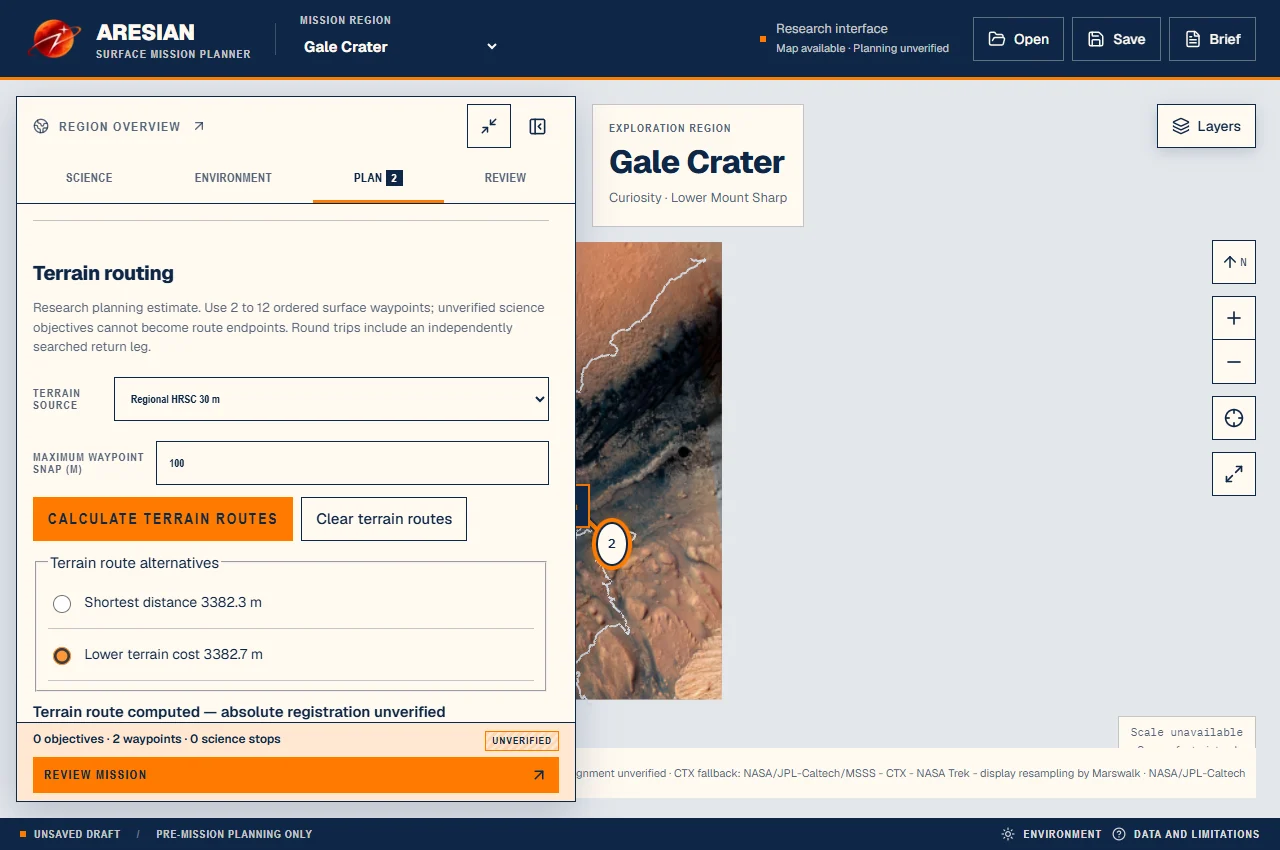
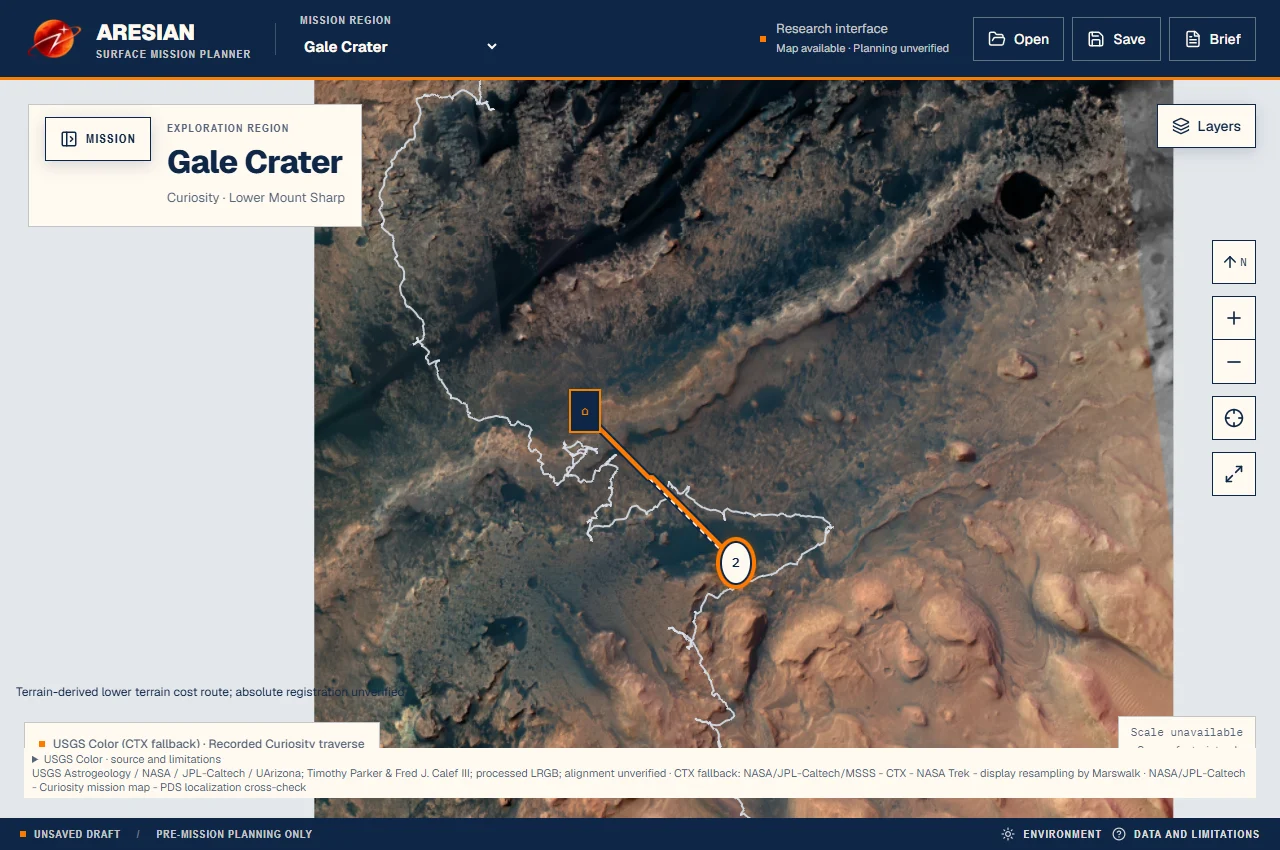
feat: add development priorities and unobstructed route previews

diff --git a/components/landing/FutureDevelopment.tsx b/components/landing/FutureDevelopment.tsx
@@ -1,0 +1,47 @@
+import { Compass, MapPin, BatteryCharging, Files } from "lucide-react";
+
+const priorities = [
+  {
+    title: "Geographic and terrain validation",
+    description: "Validate geographic registration, coordinate systems, data coverage and hazard thresholds.",
+    Icon: Compass,
+  },
+  {
+    title: "Science-objective verification",
+    description: "Complete evidence-based verification of Gale and Jezero science-objective locations.",
+    Icon: MapPin,
+  },
+  {
+    title: "Resource and feasibility models",
+    description: "Improve resource models and mission-feasibility assessments while keeping assumptions visible.",
+    Icon: BatteryCharging,
+  },
+  {
+    title: "Offline planning and reporting",
+    description: "Expand offline access, mission revalidation and report generation.",
+    Icon: Files,
+  },
+];
+
+export function FutureDevelopment() {
+  return (
+    <section id="future-development" aria-labelledby="future-development-title" className="bg-[#FFF9F0] py-20 lg:py-28 border-b border-[#0F2747]/10">
+      <div className="max-w-[1280px] mx-auto px-4 sm:px-6 lg:px-8">
+        <div className="max-w-2xl space-y-3 mb-12 lg:mb-14">
+          <span className="font-mono text-xs uppercase tracking-[0.16em] text-[#FF7A00] font-semibold block">07 · Looking ahead</span>
+          <h2 id="future-development-title" className="font-display font-bold text-3xl sm:text-4xl text-[#0F2747] leading-tight">Future development</h2>
+          <p className="text-base text-[#0F2747]/80 leading-relaxed">Our next steps focus on stronger scientific verification, clearer assumptions, and more useful planning tools.</p>
+        </div>
+        <div className="grid grid-cols-1 md:grid-cols-2 gap-6">
+          {priorities.map(({ title, description, Icon }) => (
+            <article key={title} className="rounded-xl border border-[#0F2747]/12 bg-[#FFE7D1]/30 p-6 space-y-3">
+              <Icon className="w-6 h-6 text-[#FF7A00]" aria-hidden="true" />
+              <h3 className="font-display font-bold text-lg text-[#0F2747]">{title}</h3>
+              <p className="text-sm text-[#0F2747]/80 leading-relaxed">{description}</p>
+            </article>
+          ))}
+        </div>
+      </div>
+    </section>
+  );
+}

diff --git a/components/landing/WorkflowAndFooter.tsx b/components/landing/WorkflowAndFooter.tsx
@@ -1,6 +1,7 @@
 /* eslint-disable @next/next/no-img-element -- Existing local project logo. */
 import { ArrowRight } from 'lucide-react';
 import { useLandingData } from './landing-data';
+import { FutureDevelopment } from './FutureDevelopment';
 
 interface WorkflowAndFooterProps {
   onOpenPlanner: () => void;
@@ -63,7 +64,9 @@ export function WorkflowAndFooter({ onOpenPlanner }: WorkflowAndFooterProps) {
         </div>
       </section>
 
-      {/* Section 9: Final Call to Action (Navy) */}
+      <FutureDevelopment />
+
+      {/* Final Call to Action (Navy) */}
       <section className="bg-[#0F2747] navy-grid-bg text-[#FFF9F0] py-20 lg:py-24">
         <div className="max-w-[1280px] mx-auto px-4 sm:px-6 lg:px-8 text-center">
           <div className="max-w-2xl mx-auto space-y-6">
@@ -149,6 +152,11 @@ export function WorkflowAndFooter({ onOpenPlanner }: WorkflowAndFooterProps) {
                 <li>
                   <a href="#technology" className="hover:text-[#0F2747] transition-colors">
                     Technology
+                  </a>
+                </li>
+                <li>
+                  <a href="#future-development" className="hover:text-[#0F2747] transition-colors">
+                    Future development
                   </a>
                 </li>
               </ul>

diff --git a/docs/ARESIAN_LANDING_PREVIEW.md b/docs/ARESIAN_LANDING_PREVIEW.md
@@ -20,8 +20,10 @@ Landing: http://127.0.0.1:3110/
 
 Planner: http://127.0.0.1:3110/planner
 
-This is a local preview. No deployment branch was updated and no hosted Site
-was created or published.
+The initial delivery was a local preview. The user subsequently approved
+publishing the landing page to `deploy/railway-marswalk` after adding the future
+development section and refreshing the route screenshots. No separate hosted
+Site is used; deployment continues through the existing Railway service.
 
 ## Content and compatibility
 
@@ -40,6 +42,11 @@ was created or published.
   scientific-objective routing, which remains unavailable.
 - The layer section is explicitly a Gale example, including available regional
   elevation, hillshade, slope, thermal imagery and historical REMS observations.
+- Future development lists the four user-supplied priorities: geographic and
+  terrain validation, science-objective location verification, resource and
+  feasibility models, and offline planning/revalidation/reporting.
+- Both route-preview captures use the real app with its planning panel
+  collapsed and the camera positioned to show the route and both endpoints.
 - Mission storage remains `marswalk.missions.v1`; scientific calculations,
   source coordinates, export formats, Docker configuration and API endpoints
   are unchanged. Leaving an unsaved planner through its home link prompts for
@@ -77,7 +84,7 @@ Keyboard checks passed for skip-to-content, visible focus, mobile-menu Escape
 dismissal and focus return. Canceling the planner's unsaved-draft warning
 preserves the draft; accepting it returns to the landing page.
 
-Known design limitation: Axe reports color-contrast findings on 12 elements
+Known design limitation: the initial preview Axe scan reported color-contrast findings on 12 elements
 using the reference's orange/white and small orange text choices. The rendered
 ZIP reference reports 30 such findings. These colors were retained to follow
 the requested exact palette. No other Axe WCAG A/AA rule violations were found

diff --git a/public/landing/screens/README.md b/public/landing/screens/README.md
@@ -19,6 +19,10 @@ The application calculated both alternatives using `gale-hrsc-30m`. Absolute
 registration and operational feasibility remain unverified. No sample mission
 is installed in visitors' storage.
 
+Route captures use the application's collapsed planning panel and a camera pan
+to keep the map and both route endpoints visible. No application controls,
+source geometry or route results were edited for these images.
+
 Imagery credits and processing limitations are maintained in the existing
 regional source registers: `regions/jezero`, `regions/gale`, and `regions/oxia`.
 These screenshots are presentation assets, not scientific data products.
